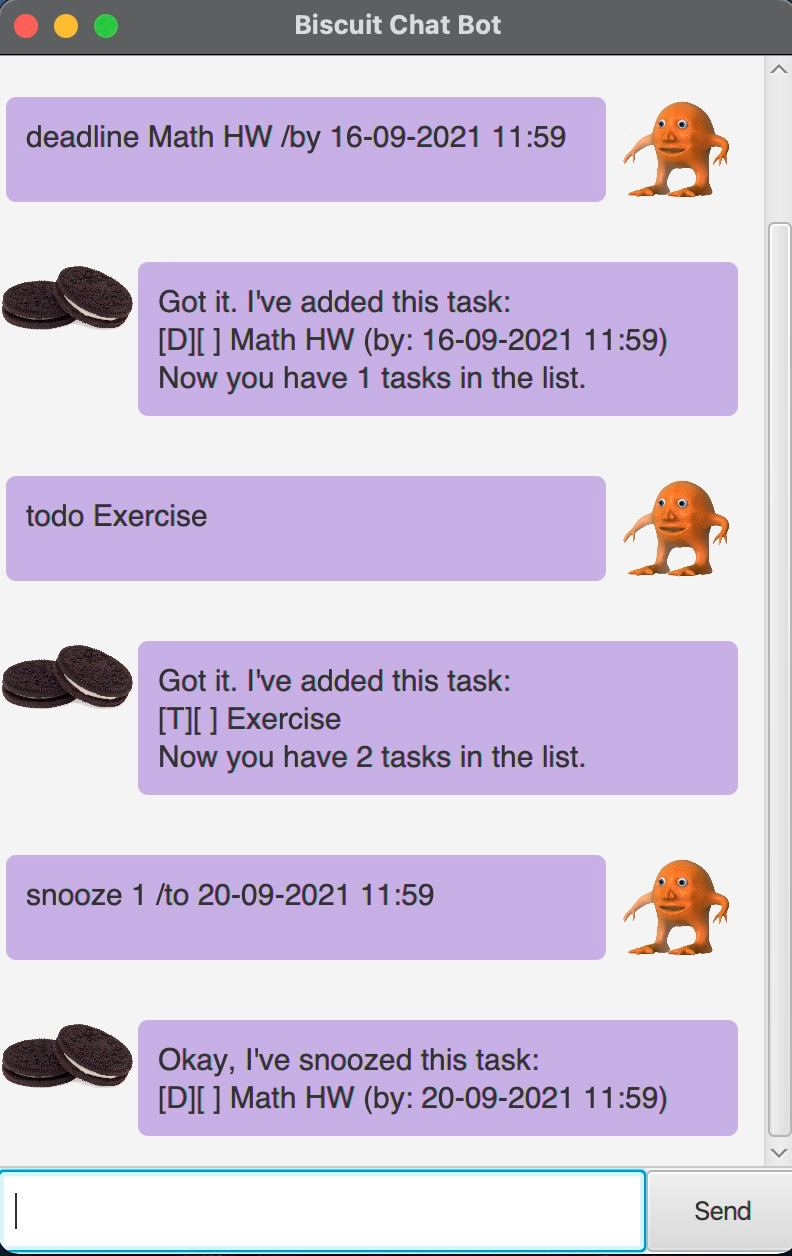
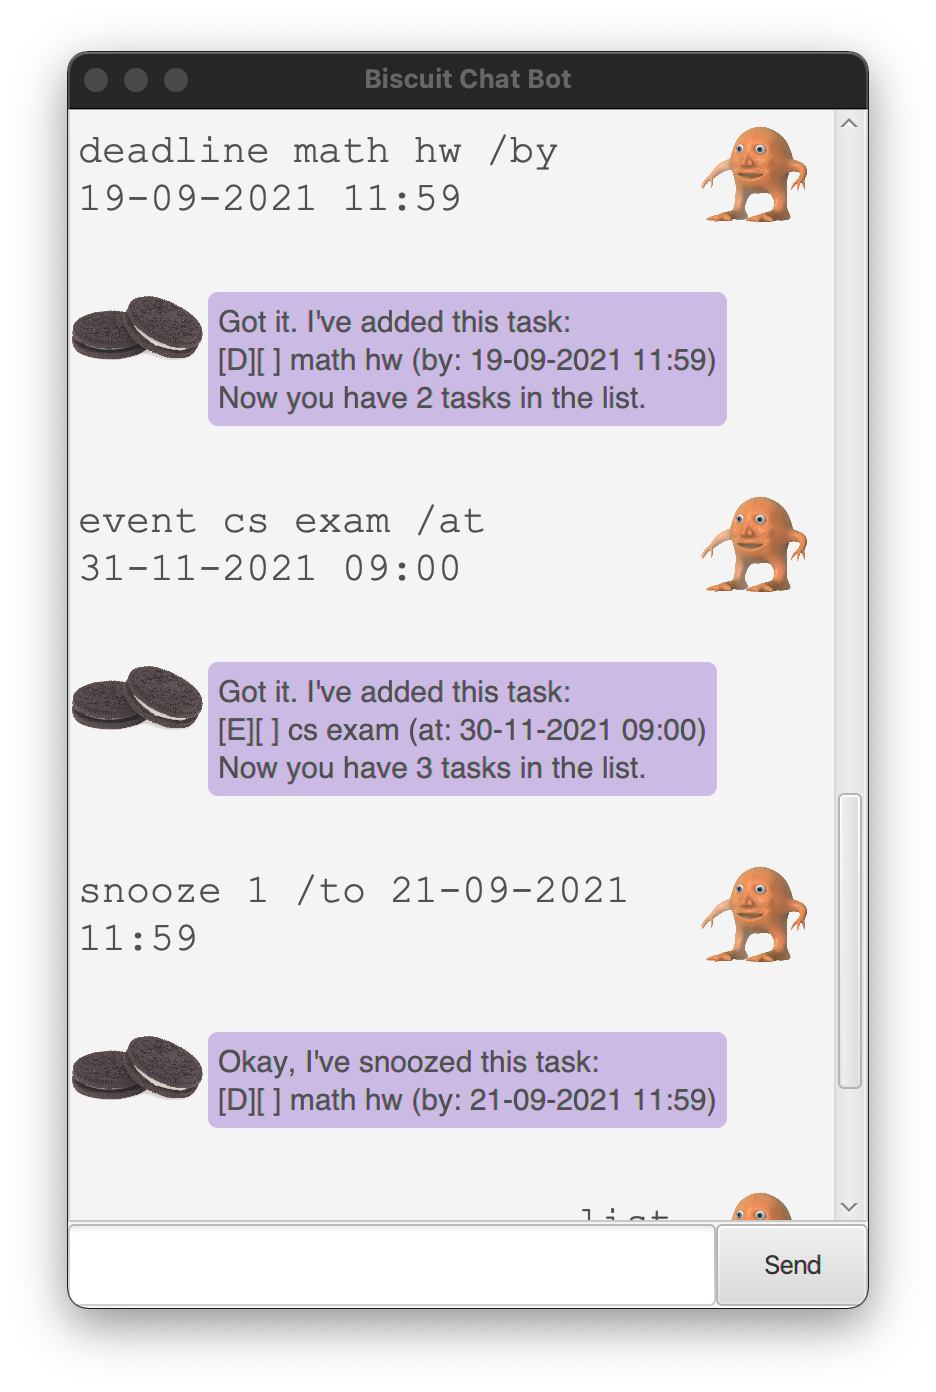
Minor GUI fix for release

diff --git a/src/main/java/duke/ui/controller/DialogBox.java b/src/main/java/duke/ui/controller/DialogBox.java
@@ -18,6 +18,7 @@ import javafx.scene.layout.BackgroundFill;
 import javafx.scene.layout.CornerRadii;
 import javafx.scene.layout.HBox;
 import javafx.scene.paint.Color;
+import javafx.scene.text.Font;
 
 /**
  * An example of a custom control using FXML.
@@ -50,6 +51,25 @@ public class DialogBox extends HBox {
         displayPicture.setImage(img);
     }
 
+    public static DialogBox getUserDialog(String text, Image img) {
+        var dialogBox = new DialogBox(text, img);
+        dialogBox.dialog.setFont(Font.font("Courier New", 20));
+        return dialogBox;
+    }
+
+    public static DialogBox getDukeDialog(String text, Image img) {
+        var dialogBox = new DialogBox(text, img);
+        dialogBox.flip();
+        BackgroundFill fill = new BackgroundFill(
+                Color.web("#C3B1E1"),
+                new CornerRadii(5),
+                Insets.EMPTY
+        );
+        Background background = new Background(fill);
+        dialogBox.dialog.setBackground(background);
+        return dialogBox;
+    }
+
     /**
      * Flips the dialog box such that the ImageView is on the left and text on the right.
      */
@@ -58,30 +78,5 @@ public class DialogBox extends HBox {
         Collections.reverse(tmp);
         getChildren().setAll(tmp);
         setAlignment(Pos.TOP_LEFT);
-    }
-
-    public static DialogBox getUserDialog(String text, Image img) {
-        var dialogBox = new DialogBox(text, img);
-        BackgroundFill fill = new BackgroundFill(
-                Color.web("#29b6f6"),
-                new CornerRadii(2.5),
-                Insets.EMPTY
-        );
-        Background background = new Background(fill);
-        dialogBox.dialog.setBackground(background);
-        return dialogBox;
-    }
-
-    public static DialogBox getDukeDialog(String text, Image img) {
-        var dialogBox = new DialogBox(text, img);
-        dialogBox.flip();
-        BackgroundFill fill = new BackgroundFill(
-                Color.web("#64ba69"),
-                new CornerRadii(2.5),
-                Insets.EMPTY
-        );
-        Background background = new Background(fill);
-        dialogBox.dialog.setBackground(background);
-        return dialogBox;
     }
 }
